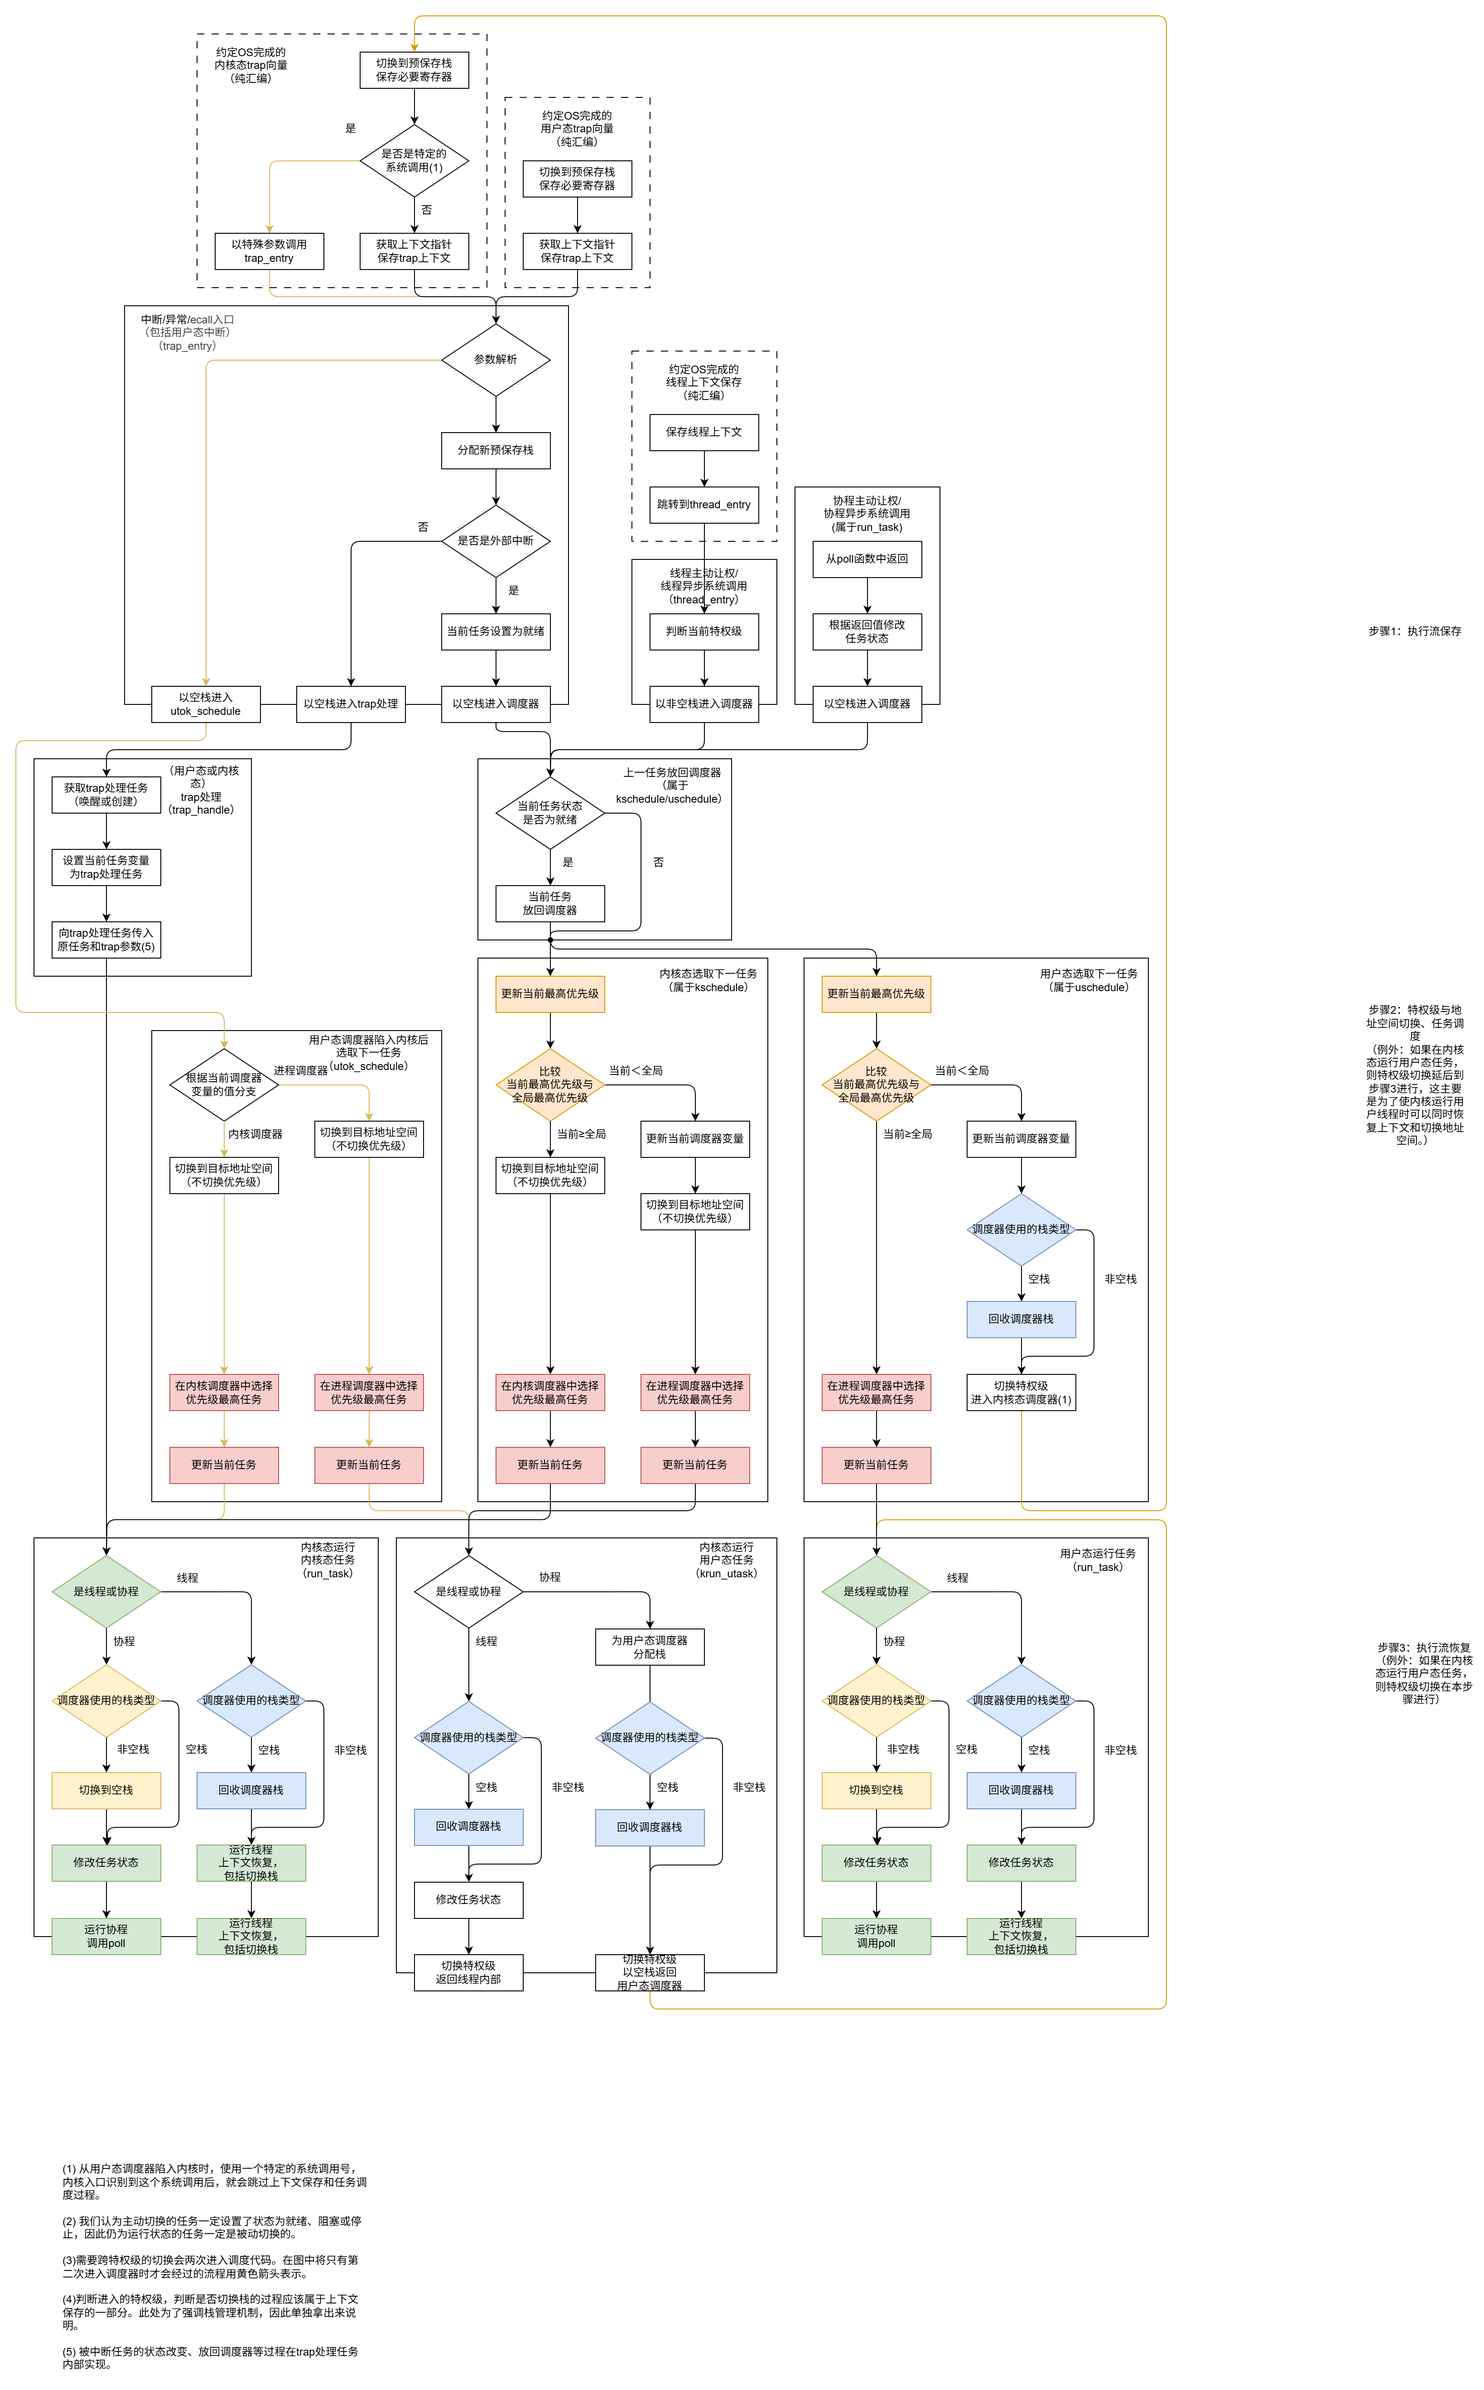
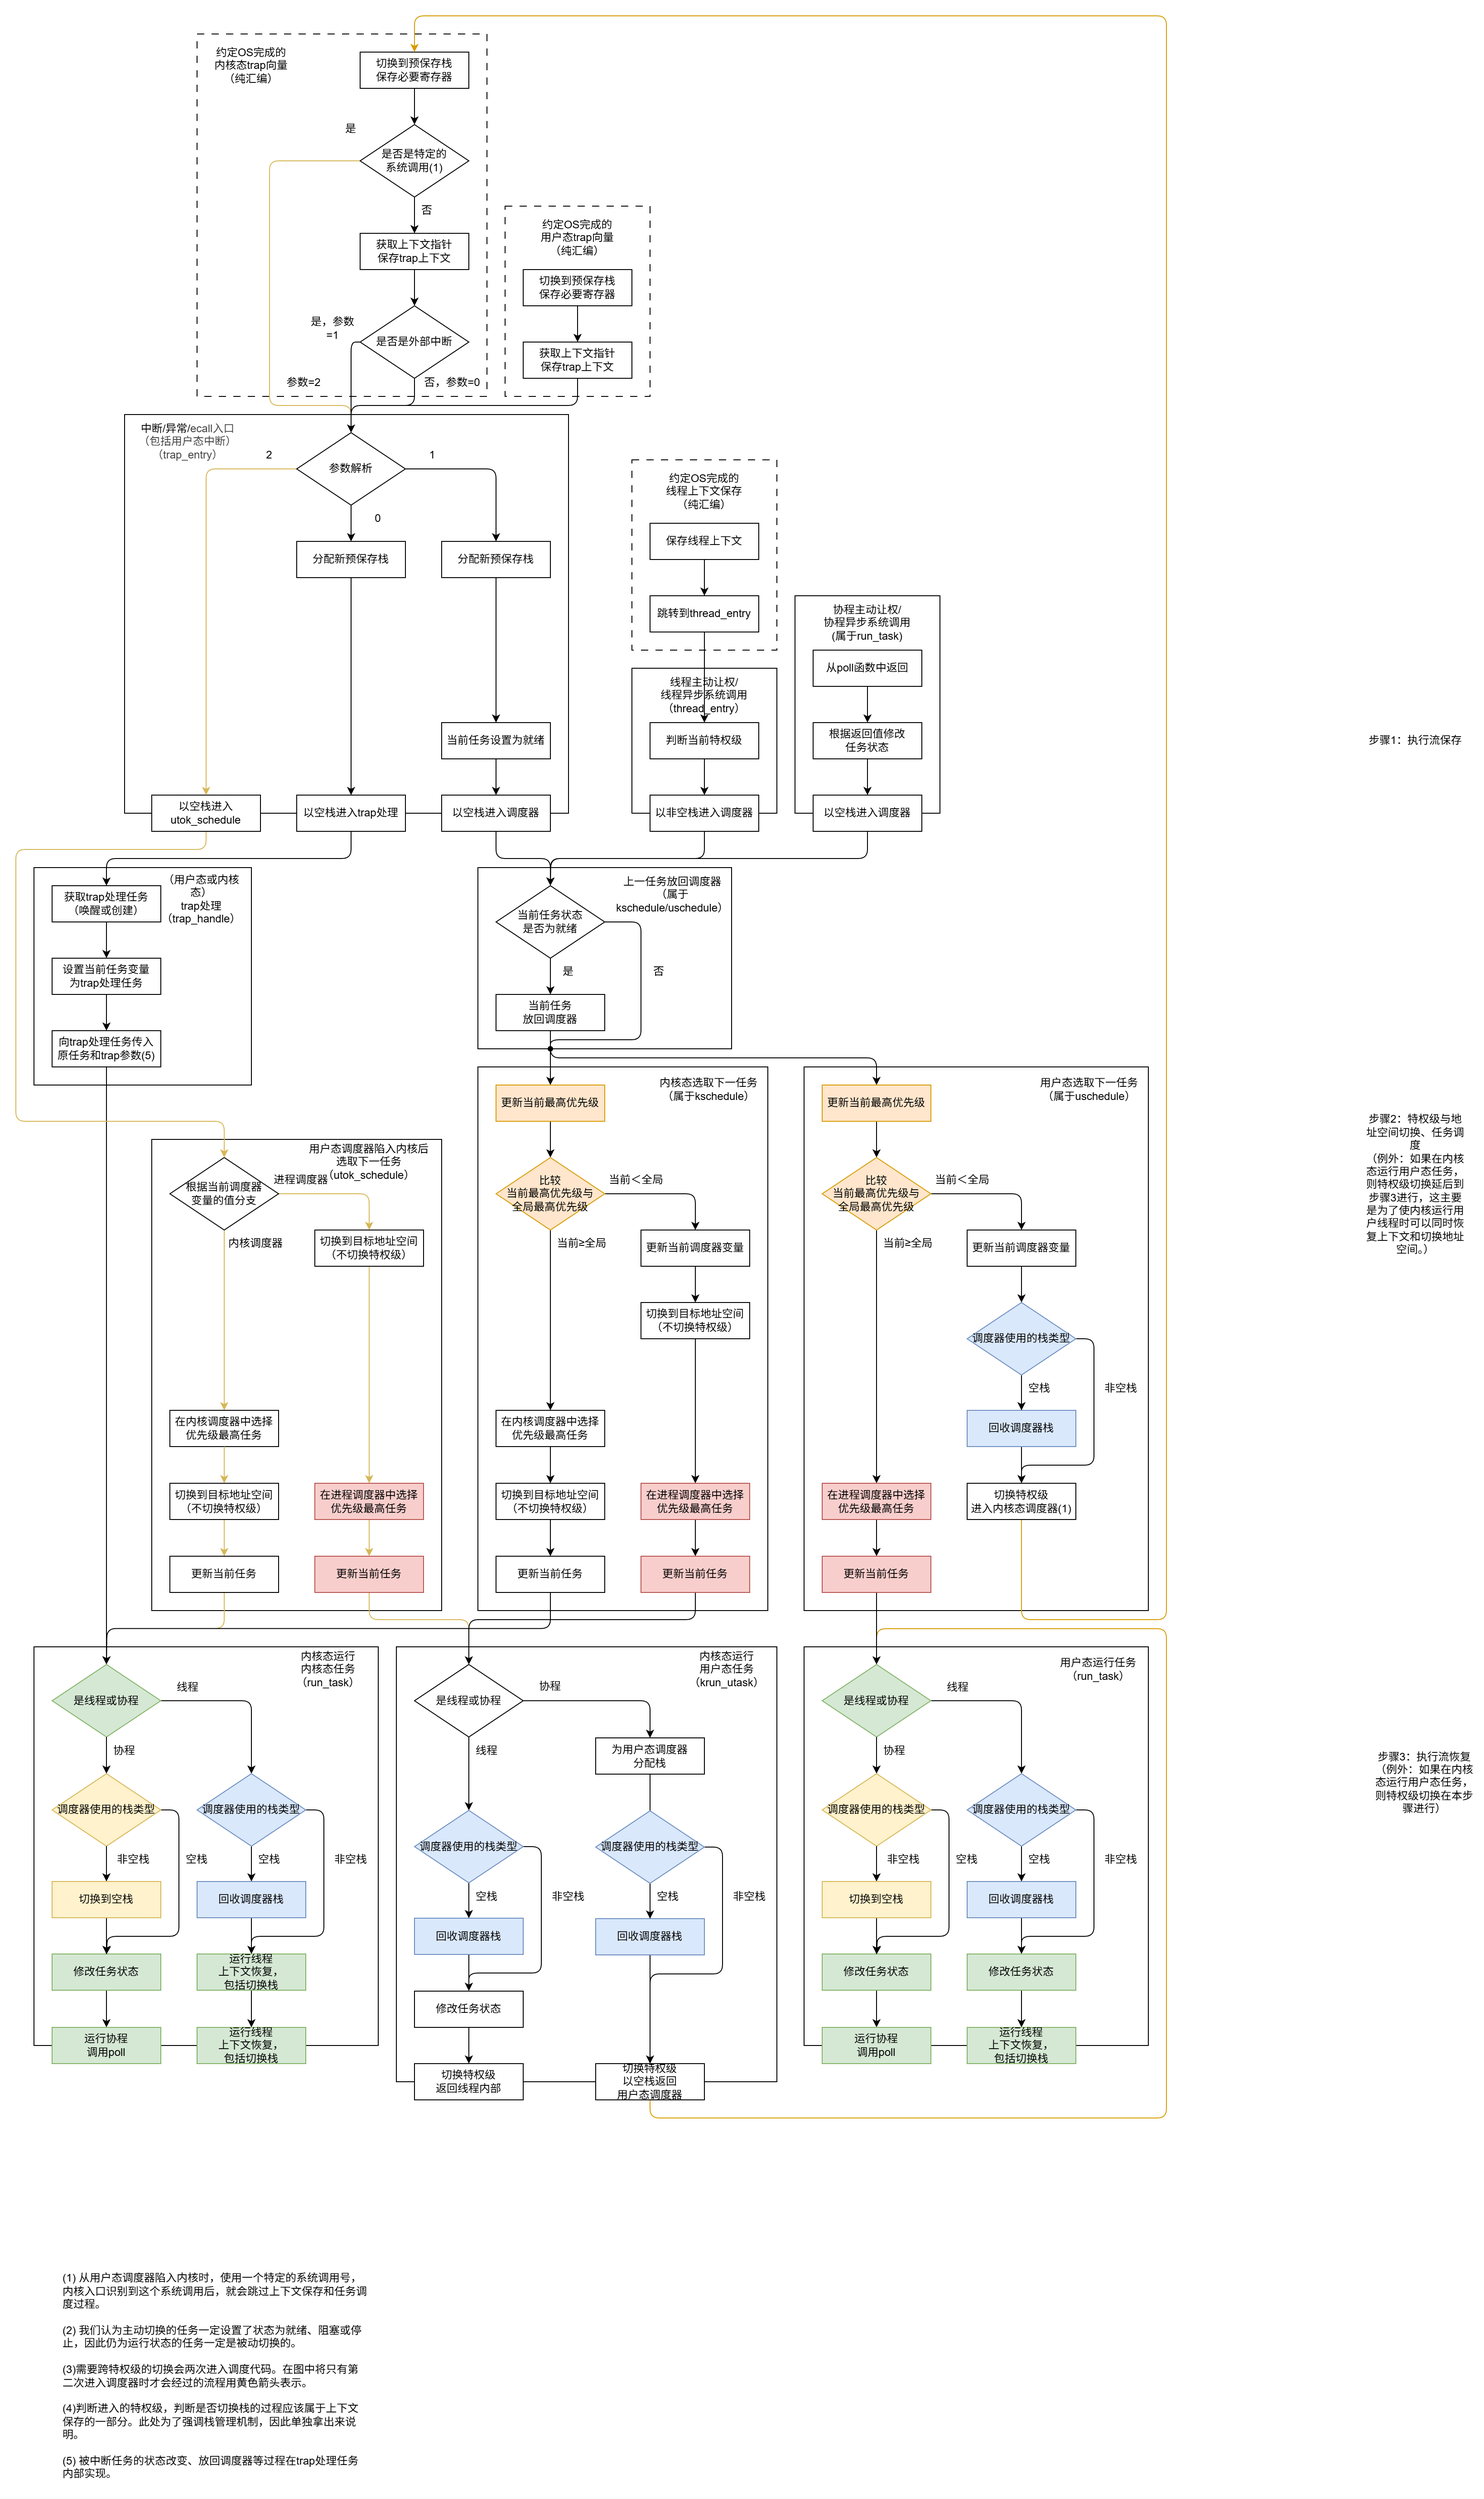
修改流程图

diff --git a/26.3.2~26.3.8/调度器模块重构思路.md b/26.3.2~26.3.8/调度器模块重构思路.md
@@ -97,7 +97,7 @@ trap前后的执行流视为不同任务的情况：
 
 用户栈的管理：每个进程配备一个栈池，从内核态进入调度器上下文时分配栈，在用户态调度器中运行同进程的线程时回收调度器的栈。
 
-内核栈的管理：系统启动时为每个核心分配一个内核栈。然而，如果需要支持内核任务进行线程式的主动让出/阻塞，则需要在内核态也设置栈池。（仅仅支持内核态中断则不需要，因为中断可以复用原本的内核栈，处理完成后立刻返回原任务。但线程切换则无法复用内核栈。）
+内核栈的管理：系统启动时为每个核心分配一个内核栈。然而，如果需要支持内核任务进行线程式的主动让出/阻塞/被中断，则需要在内核态也设置栈池。
 
 #### 调度入口的分支和上下文保存如何实现？
 

diff --git a/26.3.9~26.3.15/调度器模块设计文档.md b/26.3.9~26.3.15/调度器模块设计文档.md
@@ -277,7 +277,7 @@ vDSO外部的部分：暂无？
 
 当前栈变量以栈底指针形式存储，实现为perCPU的私有数据。在每个地址空间中，需要提供分配和回收栈的接口。
 
-通过比较栈顶寄存器与当前变量中存储的栈底指针，可以得知调度器当前在空栈还是非空栈上运行。进而决定是否回收/切换栈。
+通过进入调度器的不同入口，可以得知调度器当前在空栈还是非空栈上运行。进而决定是否回收/切换栈。
 
 由于栈随着线程上下文保存和恢复，当前栈变量也需要在这个时机保存和恢复。因此可能需要在线程上下文中增加栈底指针？
 
